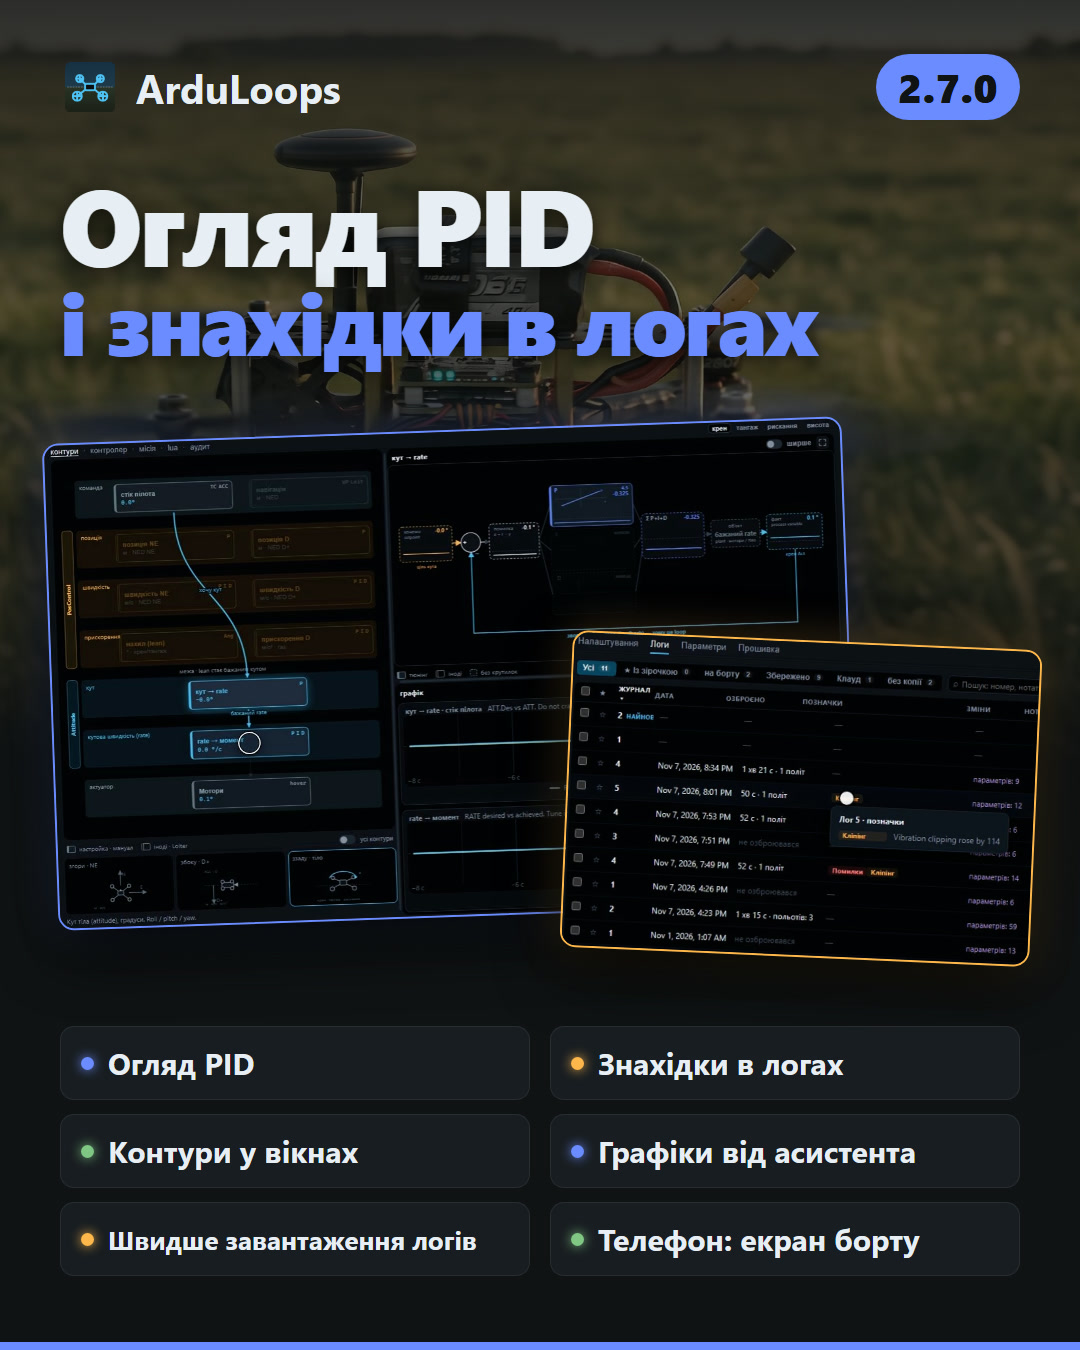
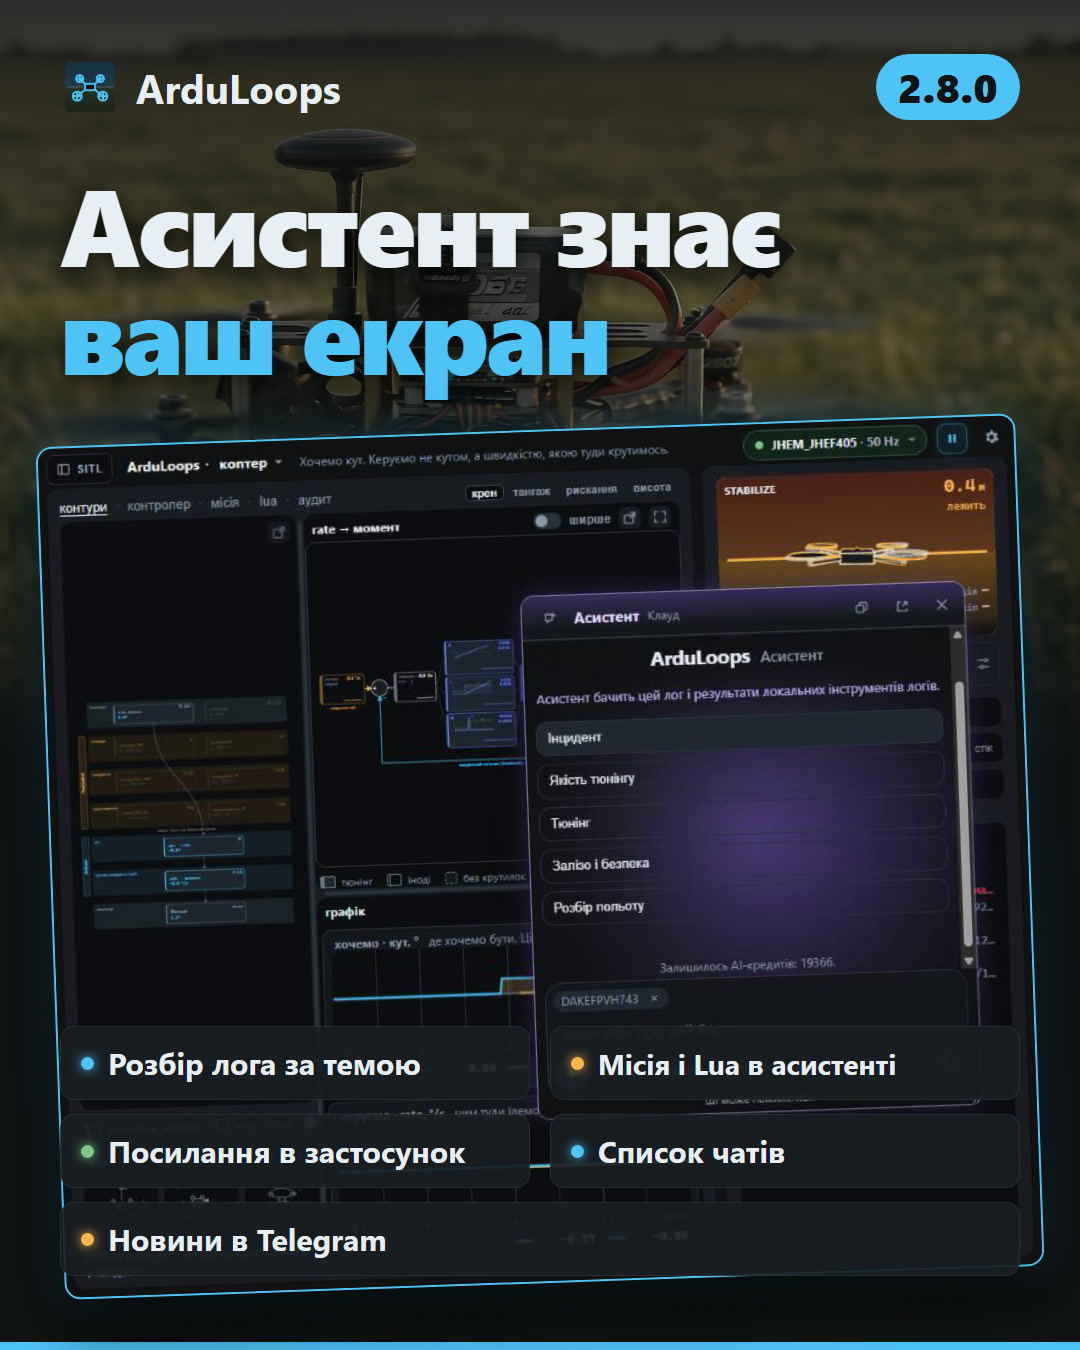
Release 2.8.0: assistant knows the screen, log presets, links into the app.
- Log analysis presets: flight review, incident, tune quality, tune,
  hardware and safety, ordered by the log's flags and findings.
- Mission and Lua screens send what they show to the assistant, with
  their own chip and starters.
- arduloops:// links in replies open a tab, Setup step or Logs.
- CSS split by component with cascade layers and tokens.
- Chat list fixed in narrow windows; the vehicle filter shows all chats
  when no vehicle is known.
- Each release is posted to the Telegram group with Ukrainian notes.

diff --git a/.release-notes.md b/.release-notes.md
@@ -1,21 +1,12 @@
-### What's in 2.7.0
+### What's in 2.8.0
 
-PID review measures how the rate loops respond. On a phone, the board on the link opens as a full board screen.
+The assistant knows the screen that you are on and gives questions for it. Links in a reply open a place in the app.
 
-- **PID review**  - The app estimates the response of each rate loop from the whole flight. It gives the step response, the bandwidth, and the phase and gain margins when the log has the data. It reads copter, quadplane VTOL and fixed-wing loops. It shows the logging setup of the log and the gaps in it, so a log written too slowly or with gaps is clear. It finds the System ID runs in the log, so each can be measured on its own.
-- **Log findings**  - Each log on this computer is checked once by HardwareReport, FilterReview, PIDReview, MAGFit and the motor balance, in the background and without an assistant request. The Logs tab shows the findings with the flags of the log. A click opens a window with the findings and the numbers of each tool. You can move and resize this window, and open it in a separate window. A button gives them to the assistant with the log, so the assistant does not run the same tools again. The column headers of the Logs tab align with the rows again.
-- **Loops in windows**  - The map, the loop and the scope of the Loops tab can open in a window. The window stays when you open another tab, and it can move to its own window on another monitor. All copies show the same card and axis.
-- **Response charts**  - The assistant can draw the step response or the Bode chart of the rate loops under its reply.
-- **Log reports**  - The hardware report reads the GPS fix, the EKF failsafe, the flight modes and the board voltage of ArduPilot 4.x logs. A value that the log does not have shows as empty, not as zero. The report fails a flight where the vehicle did not follow its desired attitude, also when the crash check did not fire. EKF3's first yaw alignment after takeoff is no longer a warning. The report and the motor balance say what each number means.
-- **Filter review**  - The review reads the filtered gyro capture from the log. It shows when the notch is not on the motor line, and then it gives a new notch frequency and reference throttle.
-- **Faster log analysis**  - The log tools read only the messages that they need.
-- **Phone: board screen**  - The board on the link opens with its parameters, logs and assistant chats. Each log shows as a two-line card. The parameter actions are in a ⋯ menu.
-- **Flight modes**  - The modes screen takes the list of modes from the ArduPilot documentation, so every mode, also SystemID, shows by name. Parameter descriptions now show for vehicle parameters such as FLTMODE1.
-- **Reboot needed**  - A dot on the board menu shows that the board needs a reboot. The menu says why: a parameter that ArduPilot reads at boot changed, the list of logs is wrong, or the board asked for it. The dot goes after the reboot.
-- **Log downloads**  - A log streams to its end, and lost parts are asked for again at once. The Logs tab shows the download speed and the time left; on a slow radio or Wi-Fi link it says that a USB cable is faster. A downloaded log shows as on this computer also when the board lists another size for it. The Logs menu can set a new log for each flight.
-- **Link chip**  - The header names the vehicle on the link by its board name.
-- **Board log storage**  - The Logs tab shows when the board's log storage is full and new flights are not recorded, and when the board's list of logs is wrong and a reboot is needed.
-- **Stability**  - When a tool stops on an internal error, the assistant gets an error and continues the reply.
+- **Log analysis presets**  - The assistant button of a log gives five topics: flight review, incident, tune quality, tune, and hardware and safety. The order follows the log: after a crash, failsafe or errors, the incident comes first. A click puts the full question in the message box. You can change it before you send it. The assistant gets the log and the log tool results with it.
+- **Mission and Lua in the assistant**  - On the Mission screen, the assistant gets the plan: the number of waypoints, the altitude, the leg lengths, the sharpest turn, and the plane navigation settings. On the Lua screen, it gets the name of the open file and if it has unsaved edits. Each screen gives its own questions in a new chat.
+- **Links into the app**  - A link in an assistant reply opens a tab, a Setup step or the Logs in the main window. A link only changes the screen. It does not read or write the vehicle.
+- **Chat list**  - In a narrow window, the chat list shows its search field and its chats correctly. When no vehicle is known, the vehicle filter shows all chats. An empty list says why.
+- **Telegram**  - Each new version is posted to the ArduLoops Telegram group with a short list of changes in Ukrainian.
 
 [Website](https://arduloops.web.app/) · [GitHub](https://github.com/ArduLoops) · [Telegram](https://t.me/ArduLoops) · [YouTube](https://www.youtube.com/@ArduLoops)
 

diff --git a/release/telegram/post.md b/release/telegram/post.md
@@ -1,10 +1,9 @@
-### Що нового в 2.7.0
+### Що нового в 2.8.0
 
-Огляд PID показує, як відпрацьовують rate-контури. На телефоні борт відкривається на весь екран.
+Асистент знає, на якому ви екрані, і пропонує питання саме до нього.
 
-- **Огляд PID** — оцінює відгук кожного rate-контуру за весь політ: перехідна характеристика, смуга пропускання, запаси по фазі й підсиленню. Коптер, VTOL і літак.
-- **Знахідки в логах** — кожен лог на комп'ютері перевіряється сам, у фоні. Прапорці й цифри видно прямо у вкладці «Логи».
-- **Контури у вікнах** — карту, контур і графік можна винести в окреме вікно, навіть на інший монітор.
-- **Графіки від асистента** — асистент малює перехідну характеристику або діаграму Боде під відповіддю.
-- **Швидше завантаження логів** — видно швидкість і час до кінця, втрачені шматки докачуються одразу.
-- **Телефон: екран борту** — параметри, логи й чати асистента на одному екрані.
+- **Розбір лога за темою** — п'ять кнопок: розбір польоту, інцидент, якість тюнінгу, тюнінг, залізо і безпека. Після аварії чи failsafe першим іде «Інцидент».
+- **Місія і Lua в асистенті** — асистент бачить план місії (точки, висоту, відрізки, повороти) або відкритий скрипт і пропонує свої питання.
+- **Посилання в застосунок** — посилання у відповіді асистента відкриває потрібну вкладку, крок налаштування чи «Логи».
+- **Список чатів** — у вузькому вікні пошук і чати знову на місці; без борта видно всі чати.
+- **Новини в Telegram** — про кожну нову версію тепер пишемо сюди.
